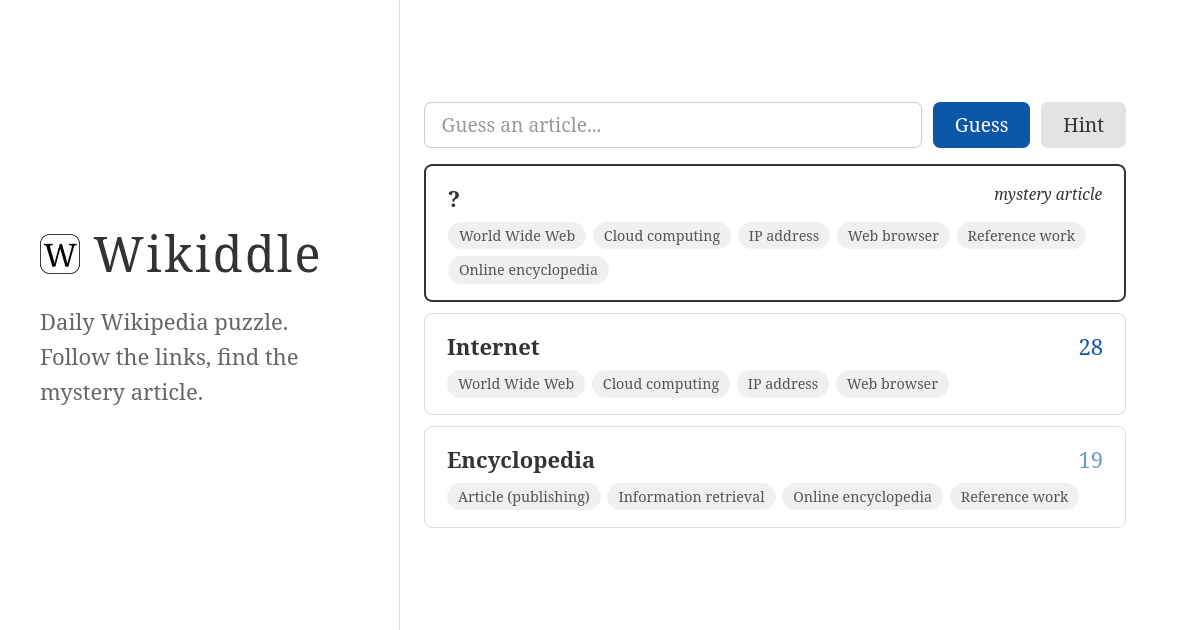
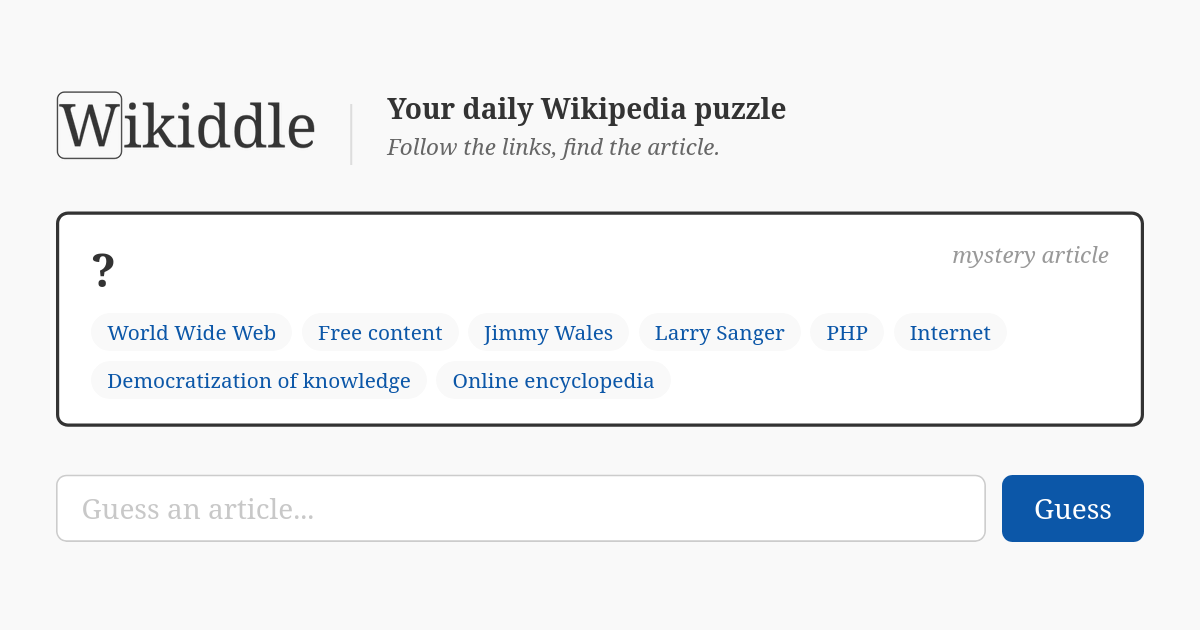
seo: improve OG image

diff --git a/marketing/og_image.html b/marketing/og_image.html
@@ -1,143 +1,217 @@
 <!DOCTYPE html>
-<html>
+<html lang="en">
 <head>
-<meta charset="utf-8">
-<link rel="stylesheet" href="../frontend/style.css">
+<meta charset="UTF-8">
 <style>
-html {
-  font-size: 22px !important;
-}
-body {
-  flex-direction: row !important;
-  height: auto !important;
-  min-height: 100vh !important;
-  background: #e0e0e0 !important;
-  align-items: center !important;
-  justify-content: center !important;
-}
-.og {
-  width: 1200px;
-  height: 630px;
-  background: #ffffff;
-  display: flex;
-  flex-direction: row;
-}
-.og-left {
-  width: 400px;
-  height: 630px;
-  flex-shrink: 0;
-  display: flex;
-  flex-direction: column;
-  justify-content: center;
-  padding: 0 40px;
-  gap: 0.75rem;
-  border-right: 1px solid var(--almost-white);
-}
-.og-logo {
-  display: flex;
-  align-items: center;
-  gap: 0.6rem;
-}
-.og-logo img {
-  width: 40px;
-  height: 40px;
-  border-radius: 8px;
-  object-fit: contain;
-  flex-shrink: 0;
-}
-.og-title {
-  font-size: 2.2rem;
-  font-weight: normal;
-  letter-spacing: 0.05em;
-  color: var(--main-dark-color);
-}
-.og-tagline {
-  font-size: 1rem;
-  color: var(--main-medium-color);
-  line-height: 1.6;
-}
-.og-right {
-  width: 750px;
-  height: 630px;
-  display: flex;
-  flex-direction: column;
-  justify-content: center;
-  padding: 32px 24px;
-  gap: 0.5rem;
-}
-.og-search {
-  display: flex;
-  gap: 0.5rem;
-  margin-bottom: 0.25rem;
-}
-.og-input {
-  flex: 1;
-  padding: 0.375rem 0.75rem;
-  font-size: var(--font-size-control);
-  font-family: var(--main-font);
-  border: 1px solid var(--input-border-color);
-  border-radius: var(--border-radius);
-  color: var(--main-light-color);
-}
-#lang-switcher {
-  width: fit-content;
-}
+  html {
+    font-size: 20px;
+
+    --wikipedia-blue: #0C57A8;
+    --main-dark-color: #333333;
+    --main-medium-color: #666666;
+    --main-light-color: #999999;
+    --very-light-color: #dddddd;
+    --almost-white: #f9f9f9;
+    --surface-background: #ffffff;
+    --border-radius: 0.375em;
+    --font-serif: Georgia, serif;
+
+    --font-size-smallest: 0.65rem;
+    --font-size-small: 0.7rem;
+    --font-size-control: 0.875rem;
+    --font-size-title: 1.875rem;
+
+    --space-smallest: 0.15rem;
+    --space-small: 0.375rem;
+    --space-medium: 0.5rem;
+    --space-large: 0.75rem;
+    --space-larger: 1rem;
+    --space-largest: 1.5rem;
+
+    --pill-background: var(--almost-white);
+    --pill-color: var(--wikipedia-blue);
+
+    --target-card-background: var(--surface-background);
+    --target-card-border-color: var(--main-dark-color);
+    --target-card-header-color: var(--main-dark-color);
+    --target-card-pill-background: var(--almost-white);
+    --target-card-pill-color: var(--wikipedia-blue);
+
+    --input-border-color: #cccccc;
+    --primary-button-background: var(--wikipedia-blue);
+    --primary-button-color: var(--surface-background);
+  }
+
+  * { box-sizing: border-box; margin: 0; padding: 0; }
+
+  body {
+    font-family: var(--font-serif);
+    background-color: var(--almost-white);
+    color: var(--main-dark-color);
+    width: 1200px;
+    height: 630px;
+    overflow: hidden;
+    display: flex;
+    flex-direction: column;
+    align-items: center;
+    justify-content: center;
+    padding: 2.5rem 3rem;
+    gap: 1.5rem;
+  }
+
+  #content {
+    width: 680px;
+    display: flex;
+    flex-direction: column;
+    gap: 1.5rem;
+    transform: scale(1.6);
+    transform-origin: center center;
+  }
+
+  /* Logo */
+  #title-area {
+    display: flex;
+    align-items: center;
+    gap: 0.6rem;
+  }
+
+  #title-divider {
+    color: var(--very-light-color);
+    font-size: var(--font-size-title);
+    font-weight: 200;
+    line-height: 1;
+  }
+
+  #tagline {
+    font-size: var(--font-size-small);
+    color: var(--main-medium-color);
+    font-style: italic;
+    line-height: 1.5;
+  }
+
+  #tagline-main {
+    font-size: var(--font-size-control);
+    color: var(--main-dark-color);
+    font-style: normal;
+    font-weight: bold;
+  }
+
+  #title-logo {
+    height: 2.2rem;
+    width: auto;
+  }
+
+  h1 {
+    font-size: var(--font-size-title);
+    font-weight: normal;
+    letter-spacing: 0.05em;
+  }
+
+  /* Target card — copied from your CSS */
+  .guess-card {
+    padding: var(--space-large) var(--space-larger);
+    background-color: var(--target-card-background);
+    border: 2px solid var(--target-card-border-color);
+    border-radius: var(--border-radius);
+  }
+
+  .guess-card-header {
+    display: flex;
+    justify-content: space-between;
+    margin-bottom: var(--space-small);
+  }
+
+  .guess-card-title {
+    font-weight: bold;
+    font-size: 1.4rem;
+  }
+
+  .target-label {
+    font-size: var(--font-size-small);
+    color: var(--main-light-color);
+    font-style: italic;
+    font-weight: normal;
+  }
+
+  .guess-card-links {
+    display: flex;
+    flex-wrap: wrap;
+    gap: 0.3rem;
+  }
+
+  .guess-card-links a {
+    padding: var(--space-smallest) var(--space-medium);
+    font-size: var(--font-size-smallest);
+    background-color: var(--target-card-pill-background);
+    color: var(--target-card-pill-color);
+    border-radius: 999px;
+    text-decoration: none;
+  }
+
+  /* Input row */
+  #input-row {
+    display: flex;
+    gap: var(--space-medium);
+  }
+
+  #guess-input {
+    flex: 1;
+    padding: var(--space-small) var(--space-large);
+    font-size: var(--font-size-control);
+    font-family: var(--font-serif);
+    border: 1px solid var(--input-border-color);
+    background-color: var(--surface-background);
+    color: var(--main-light-color);
+    border-radius: var(--border-radius);
+    outline: none;
+  }
+
+  .btn {
+    padding: var(--space-small) var(--space-larger);
+    font-size: var(--font-size-control);
+    font-family: var(--font-serif);
+    border: none;
+    border-radius: var(--border-radius);
+    cursor: pointer;
+  }
+
+  .btn-primary {
+    background-color: var(--primary-button-background);
+    color: var(--primary-button-color);
+  }
 </style>
 </head>
 <body>
-<div class="og">
-  <div class="og-left">
-    <div class="og-logo">
-      <img src="logo.png" alt="Wikiddle logo">
-      <span class="og-title">Wikiddle</span>
-    </div>
-    <p class="og-tagline">Daily Wikipedia puzzle.<br>Follow the links, find the mystery article.</p>
+
+  <div id="content">
+  <div id="title-area">
+    <img src="../frontend/wikiddle.png" id="title-logo" alt="Wikiddle">
+    <span id="title-divider">|</span>
+    <span id="tagline"><span id="tagline-main">Your daily Wikipedia puzzle</span><br>Follow the links, find the article.</span>
   </div>
-  <div class="og-right">
-    <div class="og-search">
-      <div class="og-input">Guess an article...</div>
-      <button class="btn btn-primary">Guess</button>
-      <button class="btn btn-secondary">Hint</button>
+
+  <div class="guess-card">
+    <div class="guess-card-header">
+      <div class="guess-card-title">?</div>
+      <div class="target-label">mystery article</div>
     </div>
-    <div class="guess-card target-guess-card">
-      <div class="guess-card-header">
-        <div class="guess-card-title">?</div>
-        <div class="target-label">mystery article</div>
-      </div>
-      <div class="guess-card-links">
-        <a href="#">World Wide Web</a>
-        <a href="#">Cloud computing</a>
-        <a href="#">IP address</a>
-        <a href="#">Web browser</a>
-        <a href="#">Reference work</a>
-        <a href="#">Online encyclopedia</a>
-      </div>
-    </div>
-    <div class="guess-card">
-      <div class="guess-card-header">
-        <div class="guess-card-title"><a href="#">Internet</a></div>
-        <div class="guess-card-score" style="color: #0C57A8;">28</div>
-      </div>
-      <div class="guess-card-links">
-        <a href="#">World Wide Web</a>
-        <a href="#">Cloud computing</a>
-        <a href="#">IP address</a>
-        <a href="#">Web browser</a>
-      </div>
-    </div>
-    <div class="guess-card">
-      <div class="guess-card-header">
-        <div class="guess-card-title"><a href="#">Encyclopedia</a></div>
-        <div class="guess-card-score" style="color: #6b9bcb;">19</div>
-      </div>
-      <div class="guess-card-links">
-        <a href="#">Article (publishing)</a>
-        <a href="#">Information retrieval</a>
-        <a href="#">Online encyclopedia</a>
-        <a href="#">Reference work</a>
-      </div>
+    <div class="guess-card-links">
+      <a href="#">World Wide Web</a>
+      <a href="#">Free content</a>
+      <a href="#">Jimmy Wales</a>
+      <a href="#">Larry Sanger</a>
+      <a href="#">PHP</a>
+      <a href="#">Internet</a>
+      <a href="#">Democratization of knowledge</a>
+      <a href="#">Online encyclopedia</a>
     </div>
   </div>
-</div>
+
+  <div id="input-row">
+    <input type="text" id="guess-input" placeholder="Guess an article..." readonly>
+    <button class="btn btn-primary">Guess</button>
+  </div>
+  </div>
+
 </body>
 </html>

diff --git a/marketing/make_og_image.py b/marketing/make_og_image.py
@@ -11,5 +11,5 @@ if __name__=="__main__":
         page = browser.new_page(viewport={"width": 1200, "height": 630})
         og_html_file = THIS_DIR / "og_image.html"
         page.goto(f"file:///{og_html_file}")
-        page.locator(".og").screenshot(path=THIS_DIR.parent / "frontend" / "og_image.png")
+        page.screenshot(path=THIS_DIR.parent / "frontend" / "og_image.png")
         browser.close()
